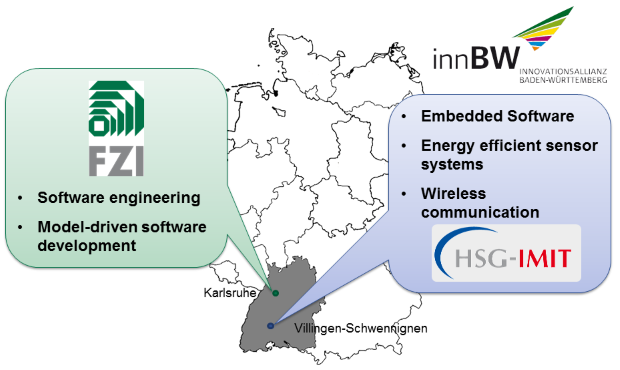
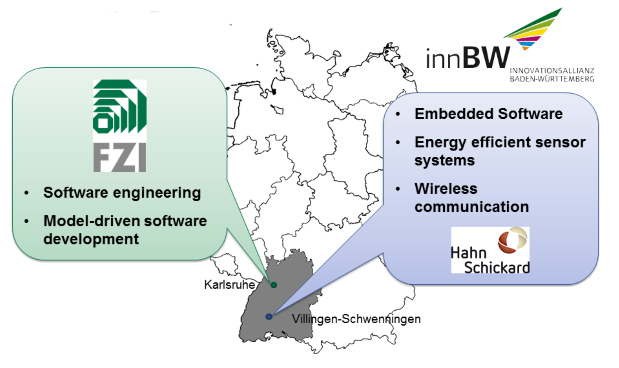
hsg-IMIT-->Hahn-Schickard

Changed region(s): [[0.0, 0.0897, 1.0, 0.9864], [0.5832, 0.0, 0.9822, 0.269]]

diff --git a/imprint.html b/imprint.html
@@ -59,12 +59,11 @@ location.href=UnCryptMailto( s );
         78052 Villingen-Schwenningen <br>
         Phone: +49 7721/943-0 <br>
         Fax: +49 7721/943-210 <br>
-        eMail: <a href="javascript:linkTo_UnCryptMailto('ocknvq,kphqBjui/kokv0fg');"
-          class="mail">info<span>@</span>hsg-imit.de</a><br>
-        <h6><b>Excecutive Board HSG-IMIT</b></h6>
+        eMail: <a href="javascript:linkTo_UnCryptMailto('nbjmup;JogpAIbio.Tdijdlbse/ef');">Info<span>@</span>Hahn.de</a><br>
+        <h6><b>Excecutive Board Institut für Mikro- und Informationstechnik </b></h6>
         <p>Prof. Dr. Yiannos Manoli<br>
           Prof. Dr. Roland Zengerle</p>
-        <h6><b>Management Board HSG </b>
+        <h6><b>Management Board Hahn-Schickard Geselschaft für angewandte Forschung e.V.</b>
         </h6>
         <p>Dr. Volker Nestle (Vorsitzender)<br>
           Thomas Albiez (Schatzmeister) <br>
@@ -73,8 +72,8 @@ location.href=UnCryptMailto( s );
           Dr. Harald Stallforth (stellv. Vorsitzender)
         </p>
         <h6>Accountable with regards to contents</h6>
-        Dr.-Ing. Christoph Rathfelder<a href="javascript:linkTo_UnCryptMailto('nbjmup;disjtupqi/sbuigfmefsAith.jnju/ef');"><br>
-          christoph<span>.</span>rathfelder [at] hsg-imit<span>.</span>de</a><br>
+        Dr.-Ing. Christoph Rathfelder<a href="javascript:linkTo_UnCryptMailto('nbjmup;Disjtupqi/SbuigfmefsAIbio.Tdijdlbse/ef');"><br>
+          Christoph<span>.</span>Rathfelder [at] Hahn-Schickard<span>.</span>de</a><br>
         Phone: +49 7721 943 161 </section>
     </div>
     <!-- FOOTER  -->

diff --git a/aboutus.html b/aboutus.html
@@ -36,9 +36,9 @@
 
           title="FZI Forschungszentrum informatik" href="http://www.fzi.de">FZI
           Forschungszentrum Informatik am Karlsruher Institut für Technologie</a>
-        and the <a title="Institut für Mikro- und Informationstechnik" href="http://www.hsg-imit.de">Institut
+        and the <a title="Institut für Mikro- und Informationstechnik" href="http://www.hahn-schickard.de">Institut
           für Mikro- und Informationstechnik<b> der Hahn-Schickard-Gesellschaft
-            für </b><b>angewandte Forschung e.V.</b> (HSG-IMIT)</a>.&nbsp; Both
+            für </b><b>angewandte Forschung e.V.</b> (Hahn-Schickard) </a>.&nbsp; Both
         institutes are both located in the federal state Baden-Württemberg in
         Germany and member of the <a title="Innovationsallianz Baden-Württemberg"
 
@@ -51,7 +51,7 @@
             <tr>
               <td><span style="font-weight: bold;">FZI<br>
                 </span></td>
-              <td><span style="font-weight: bold;">HSG-IMIT<br>
+              <td><span style="font-weight: bold;">Hahn-Schickard<br>
                 </span></td>
             </tr>
             <tr>

diff --git a/contact.html b/contact.html
@@ -63,10 +63,10 @@ location.href=UnCryptMailto( s );
           manager:</p>
         <p style="margin-left:20px;"> <span style="font-weight: bold;">Dr.-Ing.
             Christoph Rathfelder</span><br>
-          <a href="javascript:linkTo_UnCryptMailto('nbjmup;disjtupqi/sbuigfmefsAith.jnju/ef');">christoph<span>.</span>rathfelder
-            [at] hsg-imit<span>.</span>de</a><br>
+          <a href="javascript:linkTo_UnCryptMailto('nbjmup;Disjtupqi/SbuigfmefsAIbio.Tdijdlbse/ef');">Christoph<span>.</span>Rathfelder
+            [at] Hahn-Schickard<span>.</span>de</a><br>
           +49 7721 943 161</p>
-        <p style="margin-left:20px;">HSG-IMIT<br>
+        <p style="margin-left:20px;">Hahn-Schickard<br>
           Wilhelm-Schickard-Str. 10<br>
           78052 Villingen-Schwenningen<br>
           Germany </p>
